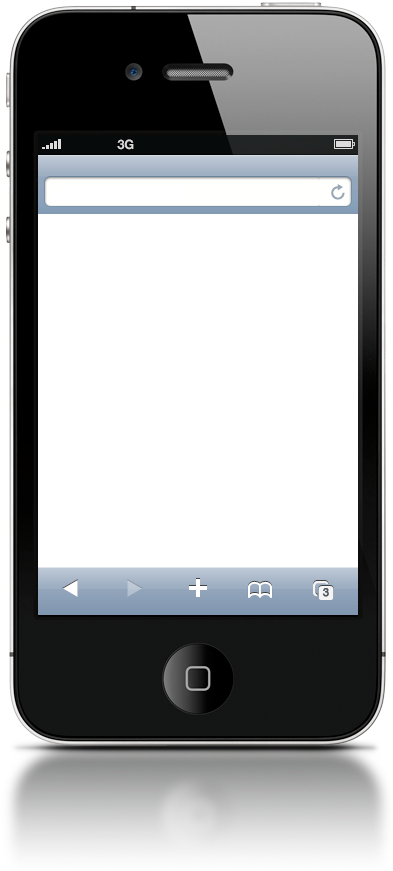
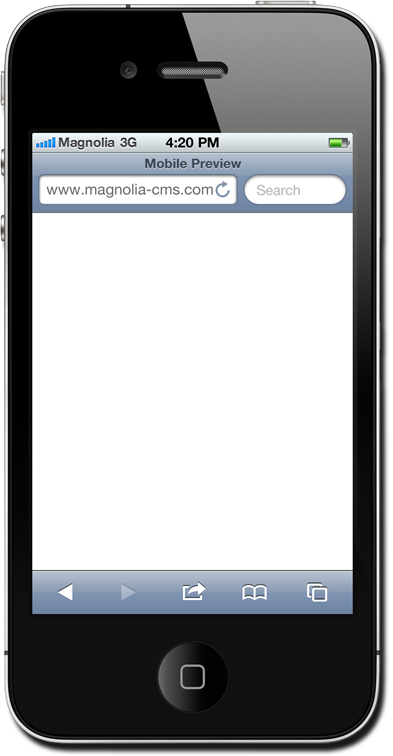
New image for portrait smartphone mobile preview.
git-svn-id: file:///home/migrator/subversion-migration/svn-repo-copy/community/magnolia/trunk@53876 a15fbcf9-bee4-0310-bafe-d02d26ad3b5f

diff --git a/magnolia-templating-editor/src/main/resources/mgnl-resources/magnolia-templating-editor/css/editor.css b/magnolia-templating-editor/src/main/resources/mgnl-resources/magnolia-templating-editor/css/editor.css
@@ -346,16 +346,16 @@ button.mgnlEditorButton:active {
 
 .mobilePreview.smartphonePortrait {
   background: url(../img/preview/mobile/smartphone/portrait.png) no-repeat;
-  width: 461px;
-  height: 752px;
+  width: 393px;
+  height: 756px;
 }
 
 .mobilePreview.smartphonePortrait .popupContent {
   position: absolute;
-  top: 214px;
-  left: 38px;
+  top: 213px;
+  left: 32px;
   width: 320px;
-  height: 355px;
+  height: 356px;
 }
 
 .mobilePreviewIframe {
